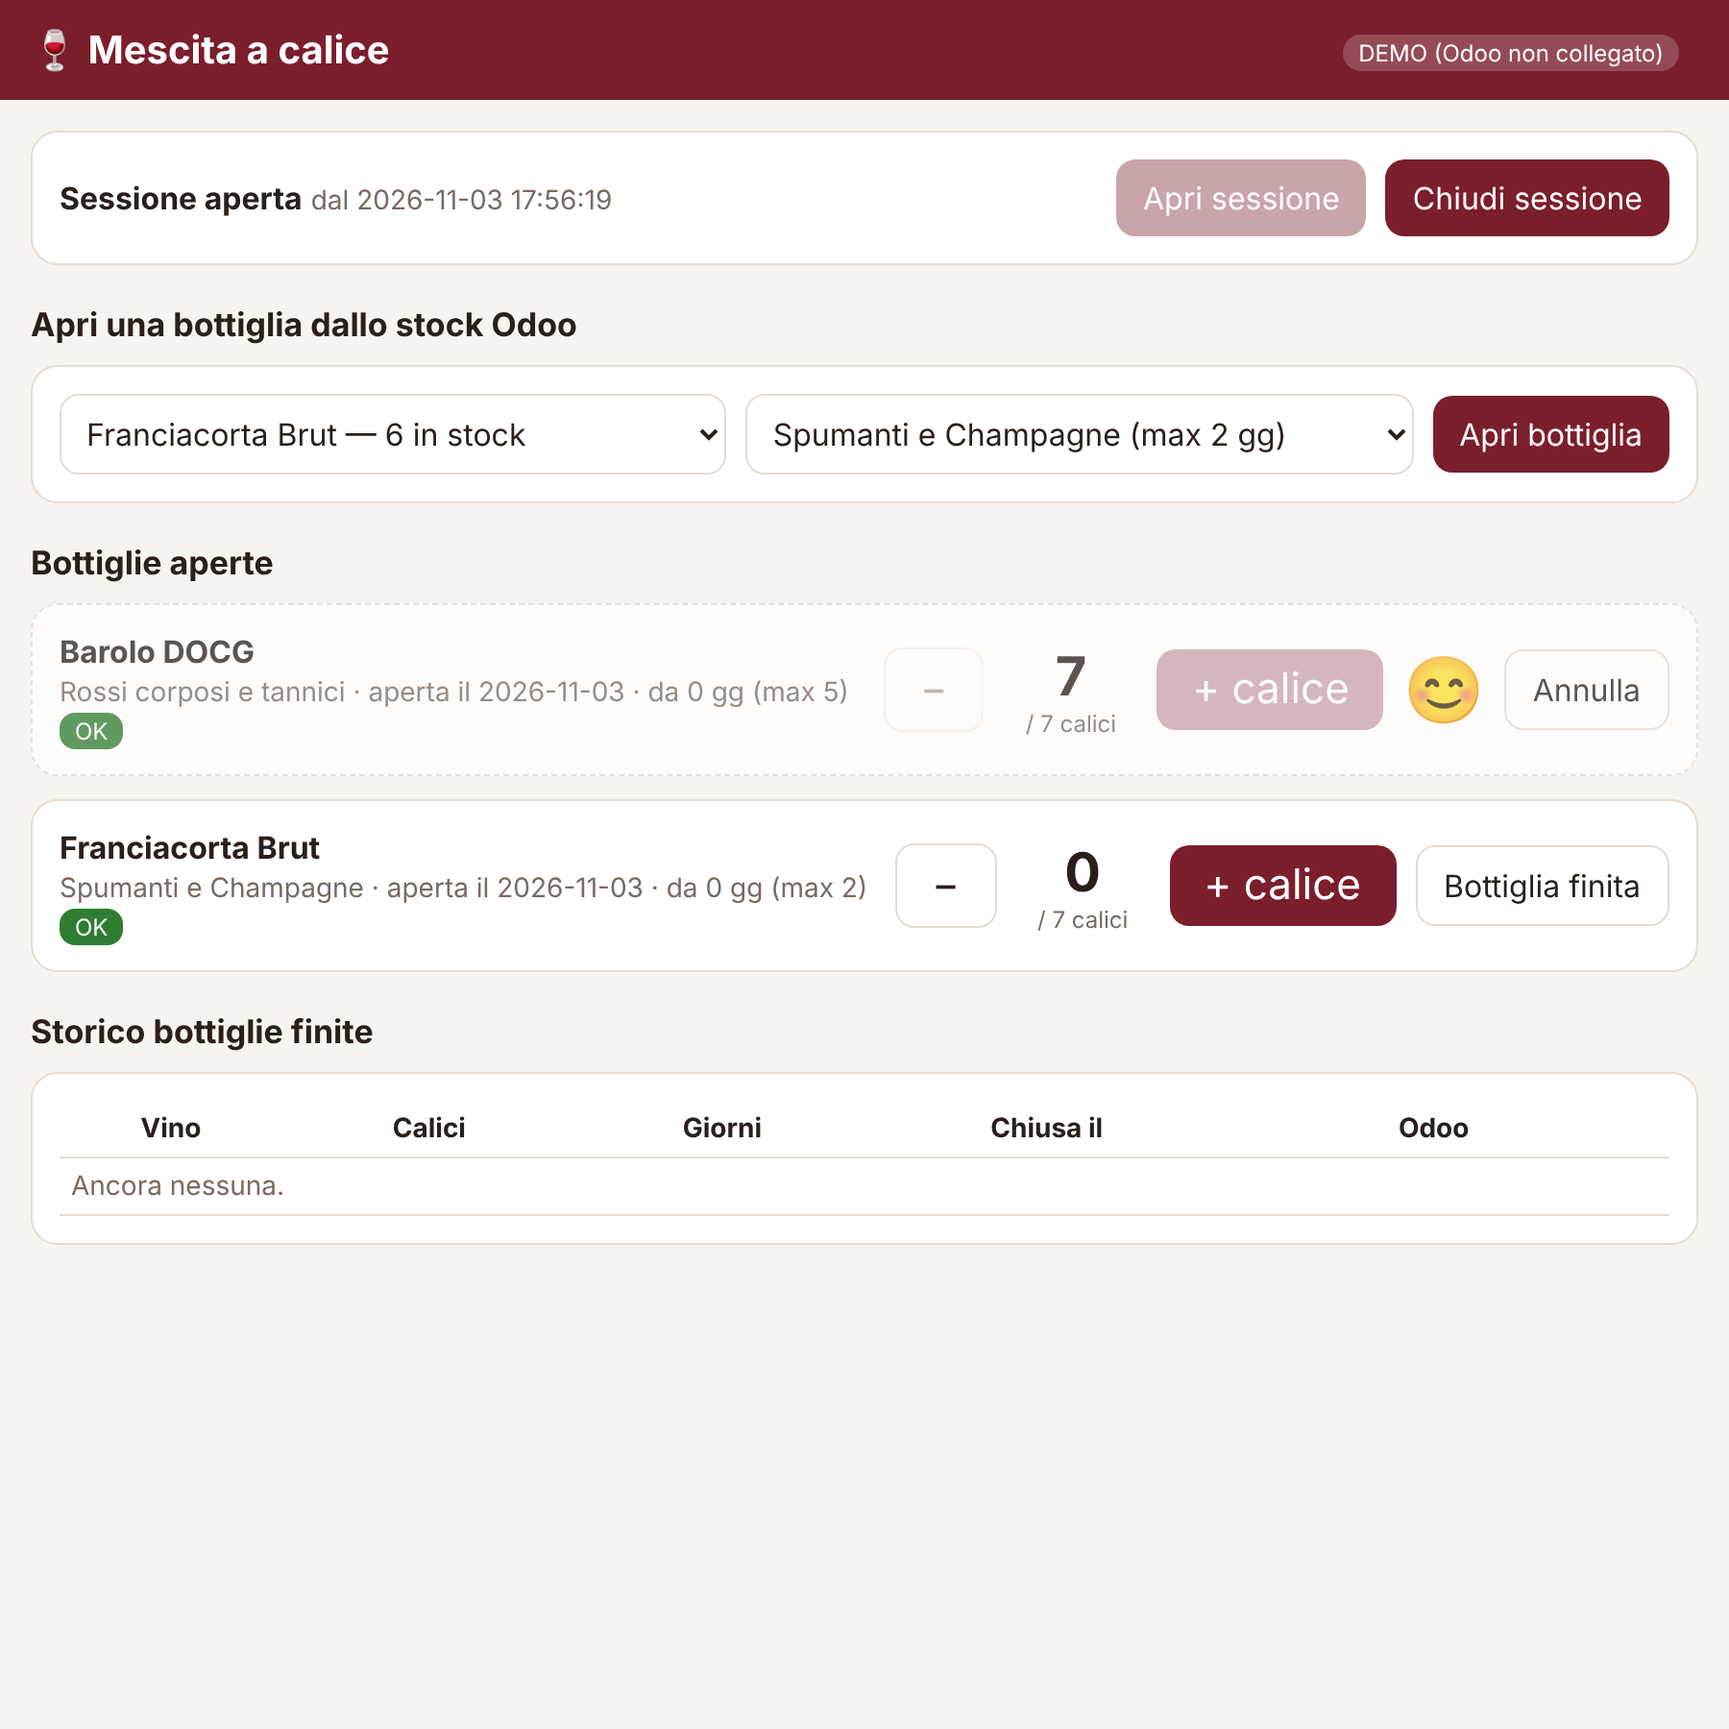
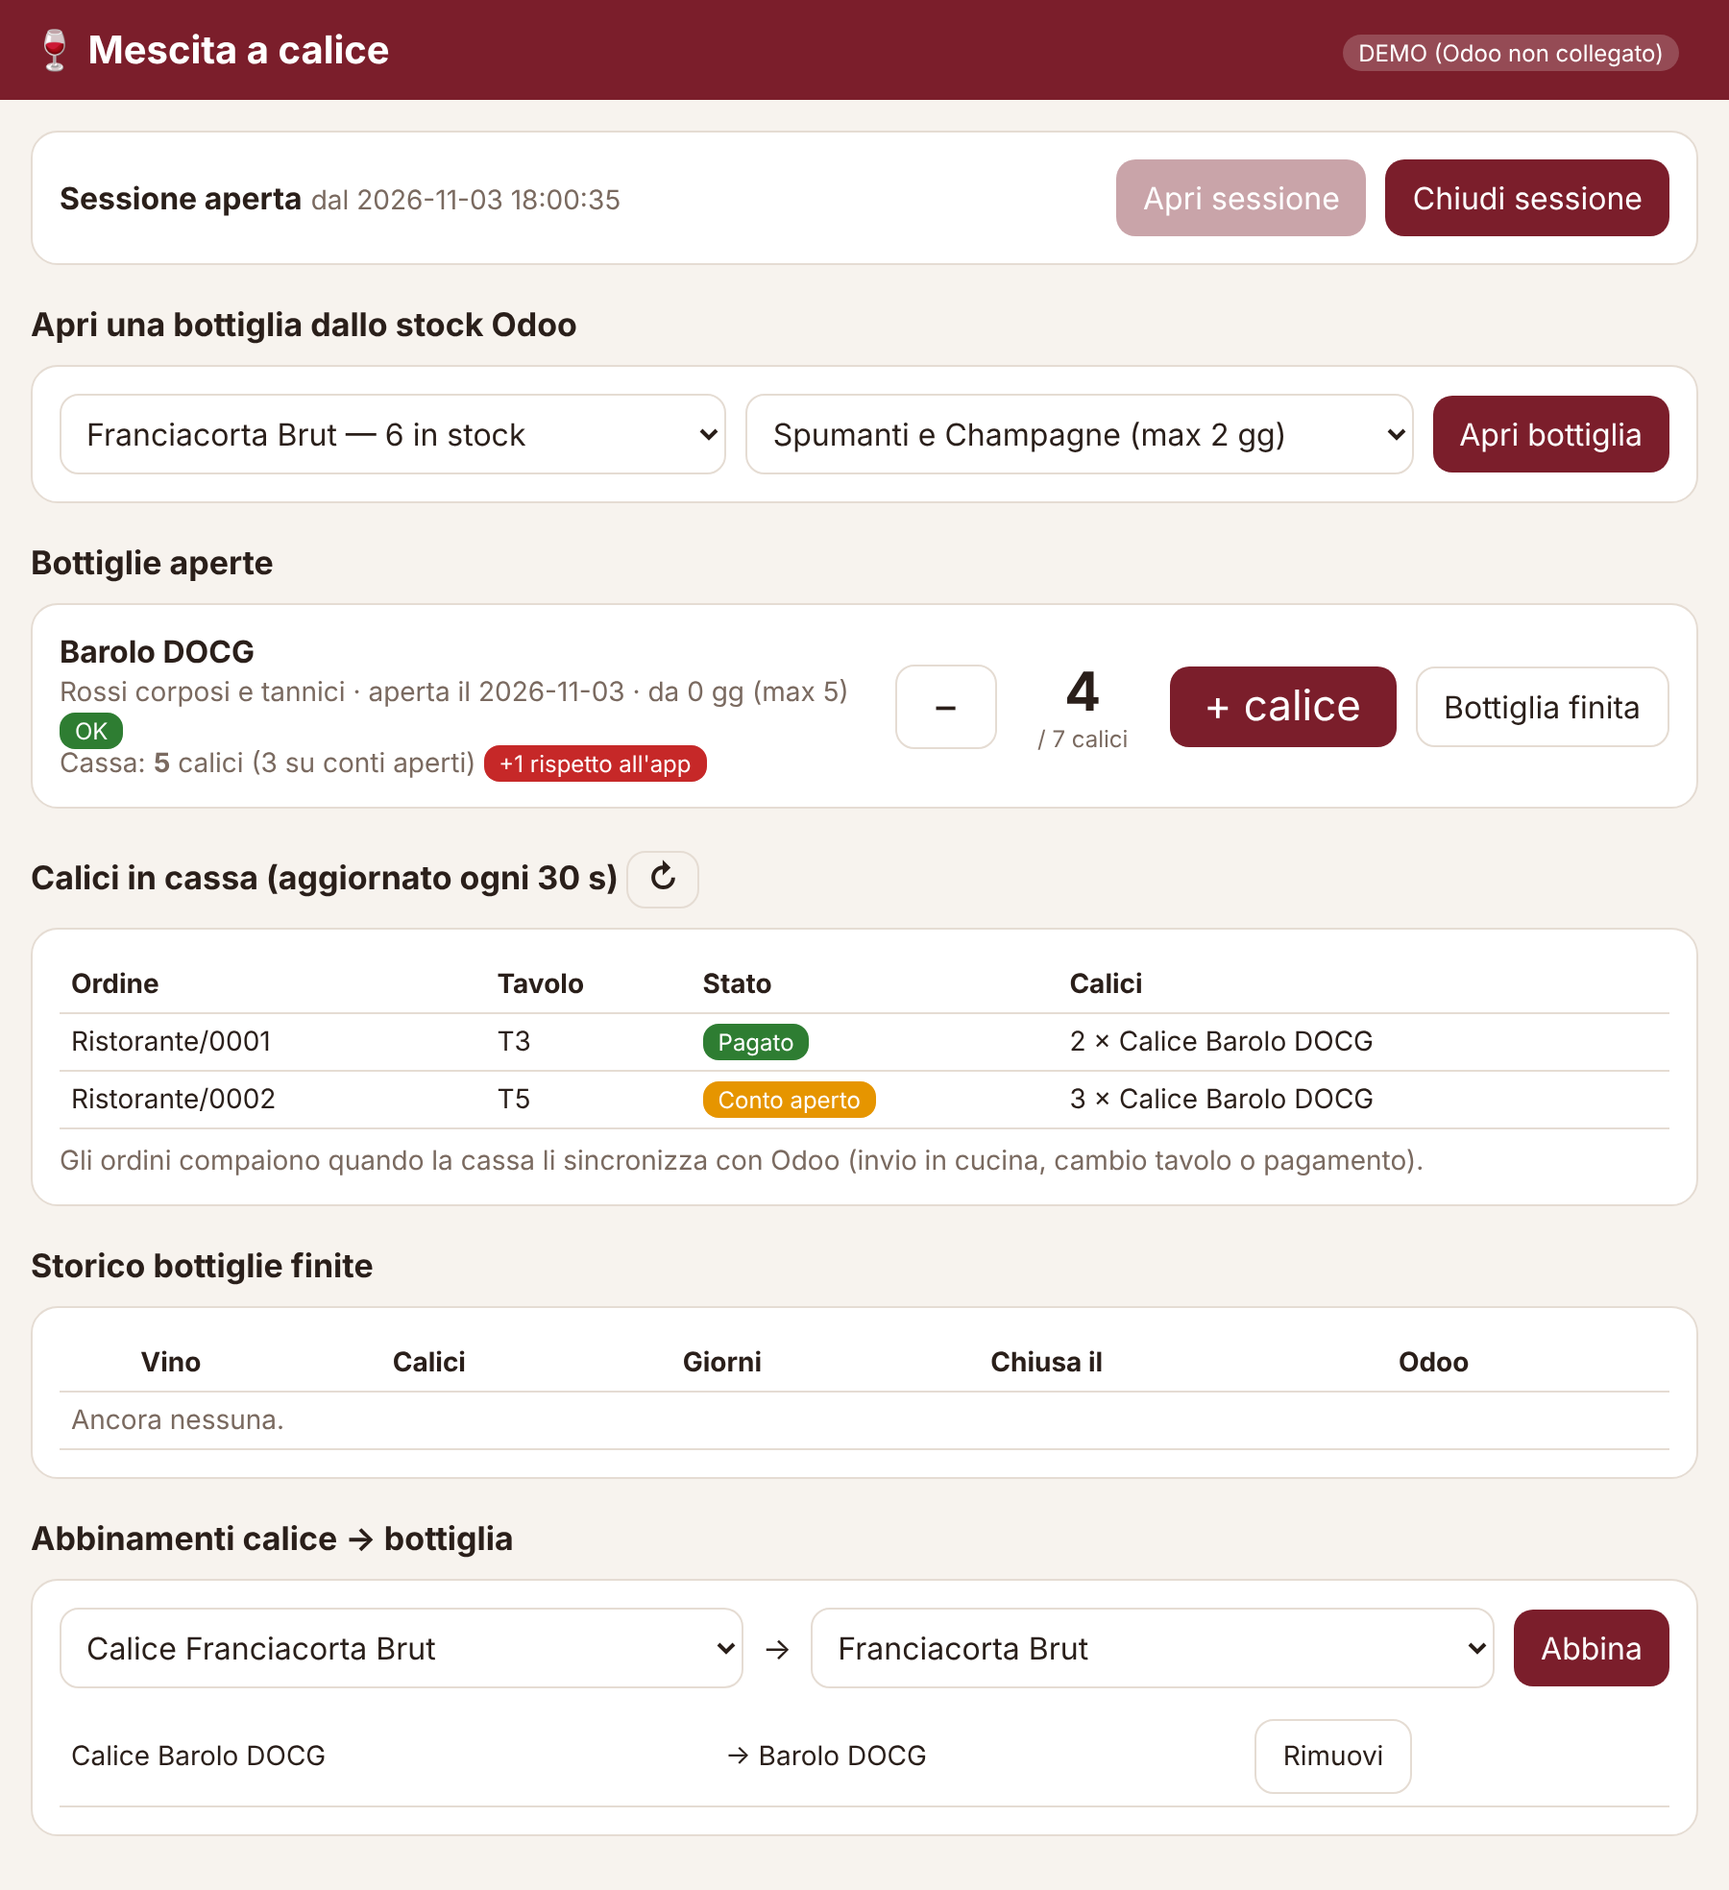
Calici venduti in tempo reale dalla cassa POS Odoo
Legge le righe d'ordine del POS (anche conti non pagati), le abbina alle
bottiglie aperte e mostra il confronto con i calici segnati nell'app.

Claude-Session: https://claude.ai/code/session_01K3VqENw3AqzipFhJHNwKAv

diff --git a/static/index.html b/static/index.html
@@ -44,8 +44,17 @@ table{width:100%;border-collapse:collapse;font-size:14px}td,th{padding:6px;borde
   <h2>Bottiglie aperte</h2>
   <div id="aperte"></div>
 
+  <h2>Calici in cassa (aggiornato ogni 30 s) <button class="sec" onclick="caricaPos()" style="padding:4px 10px">↻</button></h2>
+  <div class="card"><table><thead><tr><th>Ordine</th><th>Tavolo</th><th>Stato</th><th>Calici</th></tr></thead><tbody id="ordini"></tbody></table>
+    <p class="muted" style="margin:8px 0 0">Gli ordini compaiono quando la cassa li sincronizza con Odoo (invio in cucina, cambio tavolo o pagamento).</p></div>
+
   <h2>Storico bottiglie finite</h2>
   <div class="card"><table><thead><tr><th></th><th>Vino</th><th>Calici</th><th>Giorni</th><th>Chiusa il</th><th>Odoo</th></tr></thead><tbody id="storico"></tbody></table></div>
+  <h2>Abbinamenti calice → bottiglia</h2>
+  <div class="card">
+    <div class="row"><select id="abbCalice" class="grow"></select><span>→</span><select id="abbVino" class="grow"></select><button onclick="aggAbb()">Abbina</button></div>
+    <table style="margin-top:10px"><tbody id="abbList"></tbody></table>
+  </div>
 </main>
 
 <dialog id="riep"><div id="riepBody"></div><p><button onclick="riep.close()">OK</button></p></dialog>
@@ -81,7 +90,8 @@ async function carica(){
       <div class="row">
         <div class="grow"><b>${esc(b.nome)}</b><br>
           <span class="muted">${esc(b.categoria_nome)} · aperta il ${b.aperta_il} · da ${b.giorni} gg (max ${b.max_giorni})</span>
-          <span class="badge ${b.durata}">${{ok:'OK',attenzione:'Da finire presto',scaduta:'Oltre la durata!'}[b.durata]||''}</span></div>
+          <span class="badge ${b.durata}">${{ok:'OK',attenzione:'Da finire presto',scaduta:'Oltre la durata!'}[b.durata]||''}</span>
+          <div class="muted pos" data-vino="${b.product_id}"></div></div>
         <button class="sec big" onclick="calice(${b.id},-1)" ${b.stato==='finita'||!SESS?'disabled':''}>−</button>
         <div class="calici">${b.calici}<div class="muted" style="font-size:12px;font-weight:400">/ ${INFO.calici_per_bottiglia} calici</div></div>
         <button class="big" onclick="calice(${b.id},1)" ${b.stato==='finita'||!SESS?'disabled':''}>+ calice</button>
@@ -90,9 +100,33 @@ async function carica(){
           : `<button class="sec" onclick="finita(${b.id},true)">Bottiglia finita</button>`}
       </div>
     </div>`).join('') : '<div class="card muted">Nessuna bottiglia aperta.</div>';
+  caricaPos();
   const st = await api('/api/storico');
   $('storico').innerHTML = st.map(b => `<tr><td class="face" style="font-size:22px">${faccia(b.faccina)}</td><td>${esc(b.nome)}</td><td>${b.calici}</td><td>${b.giorni_aperta}</td><td>${b.chiusa_il}</td><td>${b.scaricata_odoo?'✔ scaricata':'⚠ non scaricata'}</td></tr>`).join('') || '<tr><td colspan="6" class="muted">Ancora nessuna.</td></tr>';
 }
+const STATO = {draft:['Conto aperto','attenzione'], paid:['Pagato','ok'], done:['Pagato','ok'], invoiced:['Fatturato','ok']};
+async function caricaPos(){
+  const p = await api('/api/pos/calici');
+  $('ordini').innerHTML = p.ordini.map(o => { const [t,c] = STATO[o.stato] || [o.stato,'ok'];
+    return `<tr><td>${esc(o.ordine)}</td><td>${esc(o.tavolo||'—')}</td><td><span class="badge ${c}">${t}</span></td><td>${o.righe.map(r => `${r.qty} × ${esc(r.calice)}`).join('<br>')}</td></tr>`; }).join('')
+    || '<tr><td colspan="4" class="muted">Nessun calice battuto in cassa per le bottiglie aperte.</td></tr>';
+  for (const v of p.per_vino) document.querySelectorAll(`.pos[data-vino="${v.vino_product_id}"]`).forEach(el => {
+    if (!v.abbinato) { el.innerHTML = 'Cassa: nessun prodotto calice abbinato (vedi in fondo)'; return; }
+    const diff = v.differenza === 0 ? '<span class="badge ok">coincide</span>'
+      : `<span class="badge scaduta">${v.differenza > 0 ? '+' : ''}${v.differenza} rispetto all'app</span>`;
+    el.innerHTML = `Cassa: <b>${v.calici_cassa}</b> calici${v.calici_aperti ? ` (${v.calici_aperti} su conti aperti)` : ''} ${diff}${v.bottiglie > 1 ? ' · totale di ' + v.bottiglie + ' bottiglie' : ''}`;
+  });
+}
+async function caricaAbb(){
+  const [prod, abb] = await Promise.all([api('/api/pos/prodotti'), api('/api/abbinamenti')]);
+  $('abbCalice').innerHTML = prod.map(p => `<option value="${p.id}">${esc(p.name)}</option>`).join('');
+  $('abbVino').innerHTML = STOCK.map(v => `<option value="${v.id}">${esc(v.name)}</option>`).join('');
+  const nomeVino = id => (STOCK.find(v => v.id == id) || {name:'#' + id}).name;
+  $('abbList').innerHTML = abb.map(a => `<tr><td>${esc(a.calice_nome)}</td><td>→ ${esc(nomeVino(a.vino_product_id))}</td><td><button class="sec" onclick="delAbb(${a.calice_product_id})">Rimuovi</button></td></tr>`).join('')
+    || '<tr><td class="muted">Abbina ogni prodotto "calice" del POS alla sua bottiglia per vedere i calici in cassa.</td></tr>';
+}
+async function aggAbb(){ const s = $('abbCalice'); await api('/api/abbinamenti', {calice_product_id:+s.value, calice_nome:s.options[s.selectedIndex].text, vino_product_id:+$('abbVino').value}); caricaAbb(); caricaPos(); }
+async function delAbb(id){ await fetch('/api/abbinamenti/' + id, {method:'DELETE'}); caricaAbb(); caricaPos(); }
 function aggCategoria(){ const v = STOCK.find(x => x.id == $('vino').value); if (v && v.categoria) $('categoria').value = v.categoria; }
 async function apriSessione(){ await api('/api/sessione/apri', {}); carica(); }
 async function apriBottiglia(){
@@ -110,7 +144,8 @@ async function chiudiSessione(){
     ${r.errori.length ? '<h4>Errori Odoo</h4>' + r.errori.map(e => `<p style="color:var(--bad)">${esc(e)}</p>`).join('') : ''}`;
   riep.showModal(); carica();
 }
-init();
+init().then(caricaAbb);
+setInterval(caricaPos, 30000);
 </script>
 </body>
 </html>

diff --git a/app.py b/app.py
@@ -2,7 +2,7 @@
 import os
 import sqlite3
 from contextlib import contextmanager
-from datetime import date, datetime
+from datetime import date, datetime, timezone
 
 from fastapi import FastAPI, HTTPException
 from fastapi.responses import FileResponse
@@ -49,6 +49,9 @@ CREATE TABLE IF NOT EXISTS vendite (
   ts TEXT NOT NULL, calici INTEGER NOT NULL);
 CREATE TABLE IF NOT EXISTS categoria_prodotto (
   product_id INTEGER PRIMARY KEY, categoria TEXT NOT NULL);
+-- quale prodotto POS "calice" corrisponde a quale vino in bottiglia
+CREATE TABLE IF NOT EXISTS abbinamenti (
+  calice_product_id INTEGER PRIMARY KEY, calice_nome TEXT NOT NULL, vino_product_id INTEGER NOT NULL);
 """
 
 
@@ -65,6 +68,12 @@ def db():
 
 with db() as c:
     c.executescript(SCHEMA)
+    if "aperta_ts" not in [r["name"] for r in c.execute("PRAGMA table_info(bottiglie)")]:
+        c.execute("ALTER TABLE bottiglie ADD COLUMN aperta_ts TEXT")  # ora di apertura, UTC
+
+
+def adesso_utc():
+    return datetime.now(timezone.utc).strftime("%Y-%m-%d %H:%M:%S")
 
 
 def oggi():
@@ -149,8 +158,8 @@ def apri_bottiglia(b: NuovaBottiglia):
         if not sessione_aperta(c):
             raise HTTPException(400, "Apri prima la sessione del giorno")
         c.execute("INSERT OR REPLACE INTO categoria_prodotto VALUES (?, ?)", (b.product_id, b.categoria))
-        cur = c.execute("INSERT INTO bottiglie (product_id, nome, categoria, aperta_il) VALUES (?,?,?,?)",
-                        (b.product_id, b.nome, b.categoria, oggi()))
+        cur = c.execute("INSERT INTO bottiglie (product_id, nome, categoria, aperta_il, aperta_ts) VALUES (?,?,?,?,?)",
+                        (b.product_id, b.nome, b.categoria, oggi(), adesso_utc()))
         return serializza(c.execute("SELECT * FROM bottiglie WHERE id=?", (cur.lastrowid,)).fetchone())
 
 
@@ -225,6 +234,79 @@ def storico(limit: int = 100):
         rows = c.execute("SELECT * FROM bottiglie WHERE stato='chiusa' ORDER BY chiusa_il DESC, id DESC LIMIT ?",
                          (limit,)).fetchall()
         return [serializza(r) for r in rows]
+
+
+# ---------------------------------------------------------------- POS in tempo reale
+@app.get("/api/pos/prodotti")
+def pos_prodotti():
+    return odoo.prodotti_pos()
+
+
+@app.get("/api/abbinamenti")
+def get_abbinamenti():
+    with db() as c:
+        return [dict(r) for r in c.execute("SELECT * FROM abbinamenti ORDER BY calice_nome")]
+
+
+class Abbinamento(BaseModel):
+    calice_product_id: int
+    calice_nome: str
+    vino_product_id: int
+
+
+@app.post("/api/abbinamenti")
+def set_abbinamento(a: Abbinamento):
+    with db() as c:
+        c.execute("INSERT OR REPLACE INTO abbinamenti VALUES (?,?,?)",
+                  (a.calice_product_id, a.calice_nome, a.vino_product_id))
+    return get_abbinamenti()
+
+
+@app.delete("/api/abbinamenti/{calice_product_id}")
+def del_abbinamento(calice_product_id: int):
+    with db() as c:
+        c.execute("DELETE FROM abbinamenti WHERE calice_product_id=?", (calice_product_id,))
+    return get_abbinamenti()
+
+
+@app.get("/api/pos/calici")
+def pos_calici():
+    """Calici battuti in cassa (anche su conti ancora aperti) per i vini con bottiglia aperta,
+    confrontati con i calici segnati nell'app."""
+    with db() as c:
+        bott = c.execute("SELECT * FROM bottiglie WHERE stato != 'chiusa'").fetchall()
+        abb = c.execute("SELECT * FROM abbinamenti").fetchall()
+    calice_di = {}  # vino -> [calice ids]
+    nome_calice = {}
+    for a in abb:
+        calice_di.setdefault(a["vino_product_id"], []).append(a["calice_product_id"])
+        nome_calice[a["calice_product_id"]] = a["calice_nome"]
+    per_vino, tutte = [], []
+    vini = {}
+    for b in bott:
+        v = vini.setdefault(b["product_id"], {"vino_product_id": b["product_id"], "nome": b["nome"],
+                                              "calici_app": 0, "dal": None, "bottiglie": 0})
+        v["calici_app"] += b["calici"]
+        v["bottiglie"] += 1
+        dal = b["aperta_ts"] or f"{b['aperta_il']} 00:00:00"
+        v["dal"] = min(v["dal"] or dal, dal)
+    for v in vini.values():
+        ids = calice_di.get(v["vino_product_id"], [])
+        righe = odoo.righe_pos(ids, v["dal"]) if ids else []
+        for r in righe:
+            r["calice"] = nome_calice.get(r["product_id"], "")
+            r["vino"] = v["nome"]
+        tutte += righe
+        cassa = sum(r["qty"] for r in righe)
+        per_vino.append({**v, "abbinato": bool(ids), "calici_cassa": cassa,
+                         "calici_aperti": sum(r["qty"] for r in righe if r["stato"] == "draft"),
+                         "differenza": cassa - v["calici_app"]})
+    ordini = {}
+    for r in tutte:
+        o = ordini.setdefault(r["ordine"], {"ordine": r["ordine"], "tavolo": r["tavolo"],
+                                           "stato": r["stato"], "righe": []})
+        o["righe"].append({"calice": r["calice"], "vino": r["vino"], "qty": r["qty"]})
+    return {"per_vino": per_vino, "ordini": sorted(ordini.values(), key=lambda o: o["ordine"])}
 
 
 app.mount("/static", StaticFiles(directory=os.path.join(os.path.dirname(__file__), "static")), name="static")

diff --git a/odoo_client.py b/odoo_client.py
@@ -26,6 +26,12 @@ class OdooClient:
             5: {"id": 5, "name": "Barolo DOCG", "qty": 3, "categ": "rosso_corposo"},
             6: {"id": 6, "name": "Passito di Pantelleria", "qty": 2, "categ": "dolce"},
         }
+        # ordini POS finti per la demo (prodotto 105 = "Calice Barolo DOCG")
+        self._demo_pos = [
+            {"ordine": "Ristorante/0001", "tavolo": "T3", "stato": "paid", "product_id": 105, "qty": 2, "data": "2000-01-01 00:00:00"},
+            {"ordine": "Ristorante/0002", "tavolo": "T5", "stato": "draft", "product_id": 105, "qty": 3, "data": "2000-01-01 00:00:00"},
+            {"ordine": "Ristorante/0002", "tavolo": "T5", "stato": "draft", "product_id": 101, "qty": 1, "data": "2000-01-01 00:00:00"},
+        ]
 
     # --- connessione -------------------------------------------------------
     def _uid_get(self):
@@ -80,3 +86,47 @@ class OdooClient:
         self._call("stock.quant", "write", [q["id"]], {"inventory_quantity": q["quantity"] - quante})
         self._call("stock.quant", "action_apply_inventory", [q["id"]])
         return True
+
+    # --- POS: calici venduti in tempo reale --------------------------------
+    def prodotti_pos(self):
+        """Prodotti vendibili al POS (per abbinare 'Calice X' alla bottiglia X)."""
+        if self.demo:
+            return [{"id": 100 + v["id"], "name": f"Calice {v['name']}"} for v in self._demo_stock.values()]
+        return self._call("product.product", "search_read", [("available_in_pos", "=", True)],
+                          fields=["id", "name"], order="name")
+
+    def righe_pos(self, product_ids, dal_utc: str):
+        """Righe d'ordine POS (anche ordini non ancora pagati) per i prodotti dati.
+
+        dal_utc: 'YYYY-MM-DD HH:MM:SS' in UTC (come le date di Odoo).
+        Ritorna [{ordine, tavolo, stato, product_id, qty, data}].
+        Nota: un ordine compare qui appena la cassa lo sincronizza con Odoo
+        (in modalità ristorante: a ogni invio in cucina / cambio tavolo / pagamento).
+        """
+        if not product_ids:
+            return []
+        if self.demo:
+            return [dict(r) for r in self._demo_pos if r["product_id"] in product_ids]
+        righe = self._call("pos.order.line", "search_read",
+                           [("product_id", "in", list(product_ids)), ("create_date", ">=", dal_utc),
+                            ("order_id.state", "!=", "cancel")],
+                           fields=["order_id", "product_id", "qty", "create_date"])
+        ordini = {}
+        ids = list({r["order_id"][0] for r in righe})
+        if ids:
+            campi = ["id", "name", "state"]
+            try:
+                info = self._call("pos.order", "read", ids, fields=campi + ["table_id"])
+            except Exception:  # POS senza modulo ristorante: niente tavoli
+                info = self._call("pos.order", "read", ids, fields=campi)
+            ordini = {o["id"]: o for o in info}
+        out = []
+        for r in righe:
+            o = ordini.get(r["order_id"][0], {})
+            tav = o.get("table_id")
+            out.append({"ordine": o.get("name", r["order_id"][1]),
+                        "tavolo": tav[1] if tav else None,
+                        "stato": o.get("state", "draft"),
+                        "product_id": r["product_id"][0],
+                        "qty": r["qty"], "data": r["create_date"]})
+        return out

diff --git a/README.md b/README.md
@@ -46,3 +46,8 @@ sudo cp deploy/nginx-mescita.conf /etc/nginx/sites-enabled/mescita && sudo nginx
 sudo certbot --nginx -d mescita.profumidistria.com   # HTTPS
 ```
 Il database è il file `mescita.db` (SQLite): fanne un backup periodico.
+
+## Calici in tempo reale dalla cassa (POS Odoo)
+L'app legge le righe d'ordine del POS di Odoo, anche dei conti non ancora pagati, e per ogni bottiglia aperta mostra quanti calici sono stati battuti in cassa dal momento dell'apertura, confrontandoli con i calici segnati nell'app. La tabella "Calici in cassa" elenca ogni ordine con tavolo e stato (conto aperto / pagato) e si aggiorna ogni 30 secondi.
+
+Per farlo funzionare, in fondo alla pagina abbina ogni prodotto POS "calice" (es. "Calice Barolo") al vino in bottiglia corrispondente. Un ordine compare appena la cassa lo sincronizza con Odoo: in modalità ristorante succede a ogni invio in cucina, cambio tavolo o pagamento. L'utente Odoo della web app deve poter leggere il Punto Vendita.
